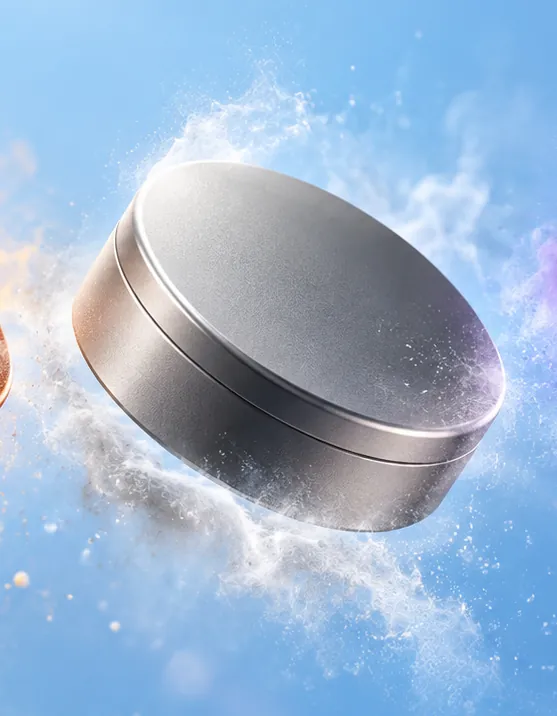
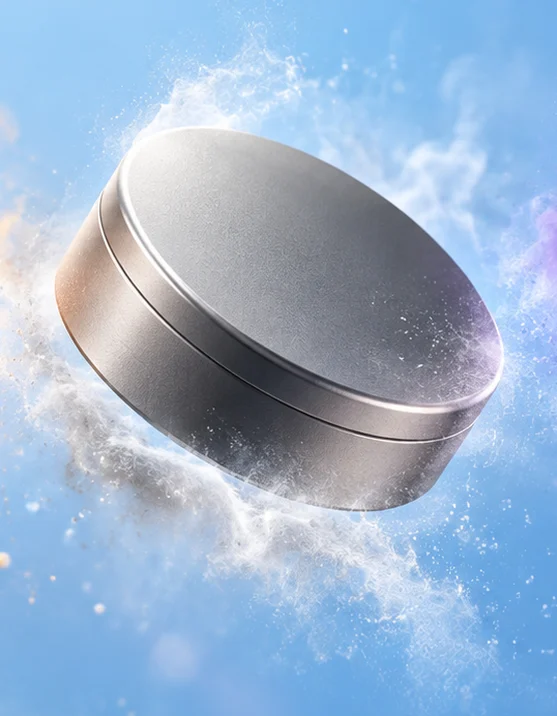
Homepage: fix cut-off cans and smooth mobile scrolling
- Re-crop the energy/nicotine/sleep card images around each can (equal
  thirds sliced through the cans)
- Hero chips move under the intro copy so they no longer cover the can
- iOS jank: drop per-frame SVG blur on the chart, backdrop blur on the
  ingredients panel, nav and sticky bar, and the animated drop-shadow on
  phones; hide fully transparent ingredient layers
- Card chip moves to the top corner; smaller thumbnails on phones
- Chart sized for iOS Safari's smaller viewport; ingredient panel fades
  in with its first ingredient

diff --git a/src/app/discover/sections/CaseForCalm.tsx b/src/app/discover/sections/CaseForCalm.tsx
@@ -273,7 +273,7 @@ function Story({ reduce }: { reduce: boolean }) {
           </div>
 
           {/* Chart: keeps its aspect and is capped so it never outgrows the pinned stage. */}
-          <div className="mx-auto w-full" style={{ maxWidth: 'min(100%, calc((100svh - 400px) * 1.133 + 44px))' }}>
+          <div className="mx-auto w-full" style={{ maxWidth: 'min(100%, calc((100svh - 450px) * 1.133 + 44px))' }}>
             <div className="relative ml-11">
               {/* Axis labels, HTML so they never distort */}
               <div aria-hidden="true" className="pointer-events-none absolute right-full top-0 mr-2 h-full text-[0.58rem] font-semibold uppercase tracking-[0.14em]">
@@ -294,16 +294,6 @@ function Story({ reduce }: { reduce: boolean }) {
                     <stop offset="0.5" stopColor="#7ec2df" stopOpacity="0.2" />
                     <stop offset="1" stopColor="#7ec2df" stopOpacity="0" />
                   </linearGradient>
-                  <filter id="cfc-glow" filterUnits="userSpaceOnUse" x={-20} y={-20} width={W + 40} height={H + 40}>
-                    <feGaussianBlur stdDeviation="4" result="b" />
-                    <feMerge>
-                      <feMergeNode in="b" />
-                      <feMergeNode in="SourceGraphic" />
-                    </feMerge>
-                  </filter>
-                  <filter id="cfc-dot" filterUnits="userSpaceOnUse" x={-20} y={-20} width={40} height={40}>
-                    <feGaussianBlur stdDeviation="3" />
-                  </filter>
                   <clipPath id="cfc-clip" clipPathUnits="userSpaceOnUse">
                     <rect ref={clipRect} x={-10} y={-30} width={W + 10} height={H + 60} />
                   </clipPath>
@@ -319,6 +309,16 @@ function Story({ reduce }: { reduce: boolean }) {
 
                 {/* series, revealed up to the cursor by one shared clip */}
                 <g clipPath="url(#cfc-clip)">
+                  <path
+                    d={PATHS.aire}
+                    fill="none"
+                    stroke={COLORS.aire}
+                    strokeOpacity={0.22}
+                    strokeWidth={12}
+                    strokeLinecap="round"
+                    strokeLinejoin="round"
+                    style={{ opacity: dim('aire'), transition: 'opacity 0.3s ease' }}
+                  />
                   {(['nic', 'caf', 'aire'] as Key[]).map((k) => (
                     <path
                       key={k}
@@ -328,7 +328,6 @@ function Story({ reduce }: { reduce: boolean }) {
                       strokeWidth={k === 'aire' ? 4 : 2.2}
                       strokeLinecap="round"
                       strokeLinejoin="round"
-                      filter={k === 'aire' ? 'url(#cfc-glow)' : undefined}
                       style={{ opacity: dim(k), transition: 'opacity 0.3s ease' }}
                     />
                   ))}
@@ -347,7 +346,7 @@ function Story({ reduce }: { reduce: boolean }) {
                     transform={`translate(${W} ${toY(FN[k](1))})`}
                     style={{ opacity: dim(k), transition: 'opacity 0.3s ease' }}
                   >
-                    <circle r={k === 'aire' ? 8 : 6} fill={COLORS[k]} opacity={0.55} filter="url(#cfc-dot)" />
+                    <circle r={k === 'aire' ? 9 : 7} fill={COLORS[k]} opacity={0.3} />
                     <circle r={k === 'aire' ? 4.5 : 3.5} fill={COLORS[k]} stroke="#0a1424" strokeWidth={1.2} />
                   </g>
                 ))}
@@ -376,7 +375,7 @@ function Story({ reduce }: { reduce: boolean }) {
                         ref={(el) => {
                           pills.current[i] = el
                         }}
-                        className="whitespace-nowrap rounded-full border border-white/15 bg-white/10 px-2 py-[3px] text-[11px] leading-none text-white/90 backdrop-blur-sm"
+                        className="whitespace-nowrap rounded-full border border-white/15 bg-[#1a2638] px-2 py-[3px] text-[11px] leading-none text-white/90"
                       >
                         {c.text}
                       </div>

diff --git a/src/app/discover/sections/Inside.tsx b/src/app/discover/sections/Inside.tsx
@@ -22,8 +22,9 @@ function Backdrop({ i, progress }: { i: number; progress: MotionValue<number> })
   const last = i === inside.items.length - 1
   const opacity = useTransform(progress, last ? [a - 0.05, a + 0.02] : [a - 0.05, a + 0.02, b - 0.02, b + 0.05], last ? [0, 1] : [0, 1, 1, 0])
   const scale = useTransform(progress, [a - 0.05, b + 0.05], [1.12, 1])
+  const visibility = useTransform(opacity, (o) => (o < 0.01 ? 'hidden' : 'visible'))
   return (
-    <motion.div style={{ opacity }} className="absolute inset-0">
+    <motion.div style={{ opacity, visibility }} className="absolute inset-0">
       <motion.div style={{ scale }} className="h-full w-full">
         <Image src={inside.images[i]} alt={`${inside.items[i].name}, ${inside.items[i].from.toLowerCase()}`} fill sizes="100vw" className="object-cover object-center" />
       </motion.div>
@@ -52,11 +53,11 @@ export default function Inside() {
     setActive((c) => (c === i ? c : i))
   })
   // Intro: cans big and centred, then they lift off.
-  const cansY = useTransform(scrollYProgress, [0, INTRO, INTRO + 0.06], [30, 0, -260])
-  const cansO = useTransform(scrollYProgress, [INTRO, INTRO + 0.06], [1, 0])
-  const cansScale = useTransform(scrollYProgress, [0, INTRO], [0.92, 1])
-  const titleO = useTransform(scrollYProgress, [INTRO, INTRO + 0.05], [1, 0])
-  const copyO = useTransform(scrollYProgress, [INTRO - 0.03, INTRO + 0.02], [0, 1])
+  const cansY = useTransform(scrollYProgress, [0, INTRO - 0.04, INTRO + 0.02], [30, 0, -220])
+  const cansO = useTransform(scrollYProgress, [INTRO - 0.04, INTRO], [1, 0])
+  const cansScale = useTransform(scrollYProgress, [0, INTRO - 0.04], [0.92, 1])
+  const titleO = useTransform(scrollYProgress, [INTRO - 0.05, INTRO - 0.01], [1, 0])
+  const copyO = useTransform(scrollYProgress, [INTRO, INTRO + 0.03], [0, 1])
 
   if (reduce) {
     return (
@@ -106,7 +107,7 @@ export default function Inside() {
                 width={1370}
                 height={972}
                 sizes="(min-width: 768px) 760px, 96vw"
-                className="h-full max-h-full w-full max-w-[760px] object-contain [filter:drop-shadow(0_30px_40px_rgba(26,46,74,0.25))]"
+                className="h-full max-h-full w-full max-w-[760px] object-contain md:[filter:drop-shadow(0_30px_40px_rgba(26,46,74,0.25))]"
               />
             </motion.div>
           </div>
@@ -114,7 +115,7 @@ export default function Inside() {
 
         {/* Ingredient copy */}
         <motion.div style={{ opacity: copyO }} className="absolute inset-x-0 bottom-0 px-4 pb-[96px] md:px-16 md:pb-14">
-          <div className="mx-auto max-w-[1100px] rounded-[26px] border border-white/60 bg-white/65 p-5 shadow-[0_20px_60px_rgba(26,46,74,0.15)] backdrop-blur-xl md:max-w-[560px] md:ml-0 md:p-7">
+          <div className="mx-auto max-w-[1100px] rounded-[26px] border border-white/60 bg-white/90 p-5 shadow-[0_20px_60px_rgba(26,46,74,0.15)] md:bg-white/65 md:backdrop-blur-xl md:max-w-[560px] md:ml-0 md:p-7">
             <div className="mb-4 flex max-w-[420px] gap-1.5" aria-hidden="true">
               {inside.items.map((x, i) => <Seg key={x.name} i={i} progress={scrollYProgress} />)}
             </div>

diff --git a/src/app/discover/sections/PouchAisle.tsx b/src/app/discover/sections/PouchAisle.tsx
@@ -18,9 +18,9 @@ const WIN = (i: number): [number, number] => [0.04 + i * 0.2, 0.04 + i * 0.2 + 0
 const AIRE_AT = 0.66
 
 const CHIP: Record<string, string> = {
-  warm: 'bg-salmon/15 text-[#b5503c] border-salmon/30',
-  grey: 'bg-navy/[0.06] text-navy-mid border-navy/15',
-  deep: 'bg-[#5f74a6]/15 text-[#3f5287] border-[#5f74a6]/30',
+  warm: 'bg-[#fdeee9] text-[#b5503c] border-salmon/30',
+  grey: 'bg-[#f1f4f7] text-navy-mid border-navy/15',
+  deep: 'bg-[#eaedf6] text-[#3f5287] border-[#5f74a6]/30',
 }
 
 function useBox(ref: React.RefObject<HTMLElement>) {
@@ -40,7 +40,7 @@ function Card({ i, progress, box }: { i: number; progress: MotionValue<number>; 
   const s = aisleStory.steps[i]
   const [a, b] = WIN(i)
   const R = 716 / 557 // card image aspect (h / w)
-  const thumb = Math.min(box.w / N - 10, box.w < 600 ? 78 : 112, box.h * 0.2)
+  const thumb = Math.min(box.w / N - 10, box.w < 600 ? 62 : 112, box.h * 0.2)
   const thumbH = thumb * R
   // The big card fills the space under the thumbnail row.
   const avail = box.h - thumbH - 14
@@ -66,9 +66,11 @@ function Card({ i, progress, box }: { i: number; progress: MotionValue<number>; 
     >
       <div className="relative overflow-hidden rounded-[28px] bg-white shadow-[0_24px_60px_rgba(26,46,74,0.18)]">
         <Image src={s.img} alt={`${s.label}, unbranded`} width={557} height={716} sizes="420px" className="aspect-[557/716] h-auto w-full object-cover" />
-        <motion.div style={{ opacity: detail }} className="absolute inset-x-0 bottom-0 flex items-end justify-between gap-3 bg-gradient-to-t from-white via-white/85 to-transparent p-5 pt-14">
-          <div className="text-[1.05rem] font-semibold leading-tight text-navy">{s.label}</div>
-          <span className={`shrink-0 rounded-full border px-3 py-1 text-[0.72rem] font-semibold ${CHIP[s.tone]}`}>{s.chip}</span>
+        <motion.span style={{ opacity: detail }} className={`absolute left-3 top-3 rounded-full border px-3 py-1 text-[0.72rem] font-semibold ${CHIP[s.tone]} shadow-sm`}>
+          {s.chip}
+        </motion.span>
+        <motion.div style={{ opacity: detail }} className="absolute inset-x-0 bottom-0 bg-gradient-to-t from-white via-white/90 to-transparent p-4 pt-12 md:p-5 md:pt-14">
+          <div className="text-[1rem] font-semibold leading-tight text-navy md:text-[1.05rem]">{s.label}</div>
         </motion.div>
       </div>
     </motion.div>
@@ -111,7 +113,7 @@ export default function PouchAisle() {
   const ctaO = useTransform(scrollYProgress, [AIRE_AT + 0.08, AIRE_AT + 0.14], [0, 1])
 
   const cur = step < N ? aisleStory.steps[step] : aisleStory.aire
-  const thumbH = Math.min(box.w / N - 10, box.w < 600 ? 78 : 112, box.h * 0.2) * (716 / 557)
+  const thumbH = Math.min(box.w / N - 10, box.w < 600 ? 62 : 112, box.h * 0.2) * (716 / 557)
   const aireW = Math.max(150, Math.min(box.w * 0.9, 440, (box.h - thumbH - 14) * (box.w < 768 ? 1.25 : 1)))
 
   if (reduce) {

diff --git a/src/app/discover/sections/Hero.tsx b/src/app/discover/sections/Hero.tsx
@@ -60,16 +60,16 @@ export default function Hero() {
           <p className="mt-4 max-w-[440px] text-[0.98rem] font-light leading-[1.55] text-white/85 md:mt-6 md:text-[1.12rem]">
             <Dag>{hero.sub}</Dag>
           </p>
+            <ul aria-label="What's not in it" className="mt-5 flex flex-wrap gap-2 md:mt-7">
+              {hero.chips.map((c) => (
+                <li key={c} className="rounded-full border border-white/20 bg-ink/60 px-3.5 py-1.5 text-[0.72rem] font-semibold tracking-[0.04em] text-white">
+                  {c}
+                </li>
+              ))}
+            </ul>
         </div>
 
         <div className="md:mt-8">
-          <ul aria-label="What's not in it" className="mb-5 flex flex-wrap gap-2">
-            {hero.chips.map((c) => (
-              <li key={c} className="rounded-full border border-white/20 bg-ink/40 px-3.5 py-1.5 text-[0.72rem] font-semibold tracking-[0.04em] text-white backdrop-blur-md">
-                {c}
-              </li>
-            ))}
-          </ul>
           <div className="flex flex-wrap items-center gap-5">
             <a
               href={buyUrl()}

diff --git a/src/components/Navbar.tsx b/src/components/Navbar.tsx
@@ -11,7 +11,7 @@ export default function Navbar({ belowBanner = false }: { belowBanner?: boolean 
       initial={{ y: -80, opacity: 0 }}
       animate={{ y: 0, opacity: 1 }}
       transition={{ duration: 0.6, ease: 'easeOut' }}
-      className={`fixed ${belowBanner ? 'top-9' : 'top-0'} left-0 right-0 z-50 flex items-center justify-between px-6 md:px-16 h-[64px] bg-white/80 backdrop-blur-xl border-b border-sky-deep/20`}
+      className={`fixed ${belowBanner ? 'top-9' : 'top-0'} left-0 right-0 z-50 flex items-center justify-between px-6 md:px-16 h-[64px] bg-white md:bg-white/80 md:backdrop-blur-xl border-b border-sky-deep/20`}
     >
       <a href="/">
         <Image src="/images/logo.png" alt="Aire" width={120} height={40} className="h-7 w-auto" style={{ mixBlendMode: 'multiply' }} />

diff --git a/src/components/StickyMobileCTA.tsx b/src/components/StickyMobileCTA.tsx
@@ -31,7 +31,7 @@ export default function StickyMobileCTA({
           transition={{ duration: 0.3, ease: [0.22, 1, 0.36, 1] }}
           className="fixed bottom-0 left-0 right-0 z-[80] md:hidden"
         >
-          <div className="bg-navy/95 backdrop-blur-lg border-t border-white/10 px-4 py-3 pb-[max(0.75rem,env(safe-area-inset-bottom))] flex items-center justify-between gap-3">
+          <div className="bg-navy border-t border-white/10 px-4 py-3 pb-[max(0.75rem,env(safe-area-inset-bottom))] flex items-center justify-between gap-3">
             <div className="flex flex-col">
               <span className="text-[0.72rem] text-white/50 font-light">{label}</span>
               <span className="text-[1rem] text-white font-semibold">{price}</span>
